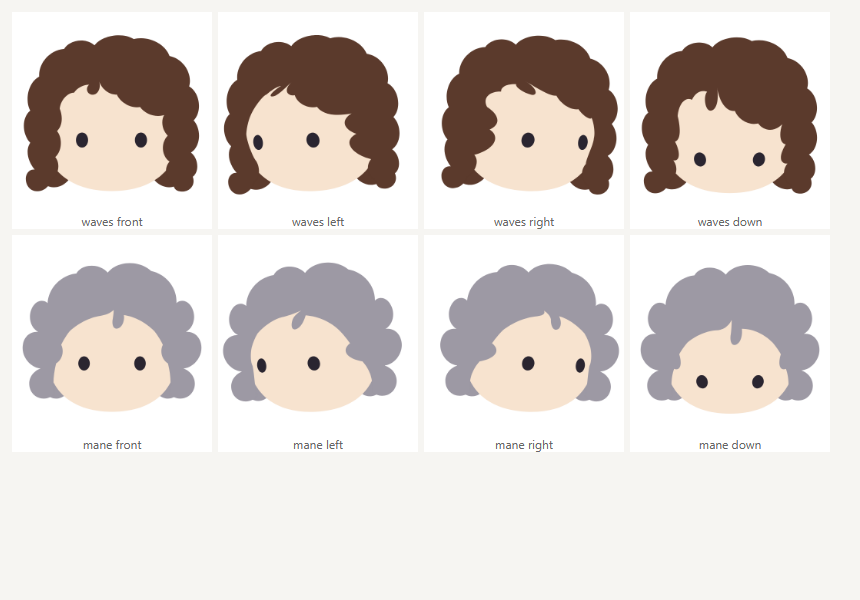
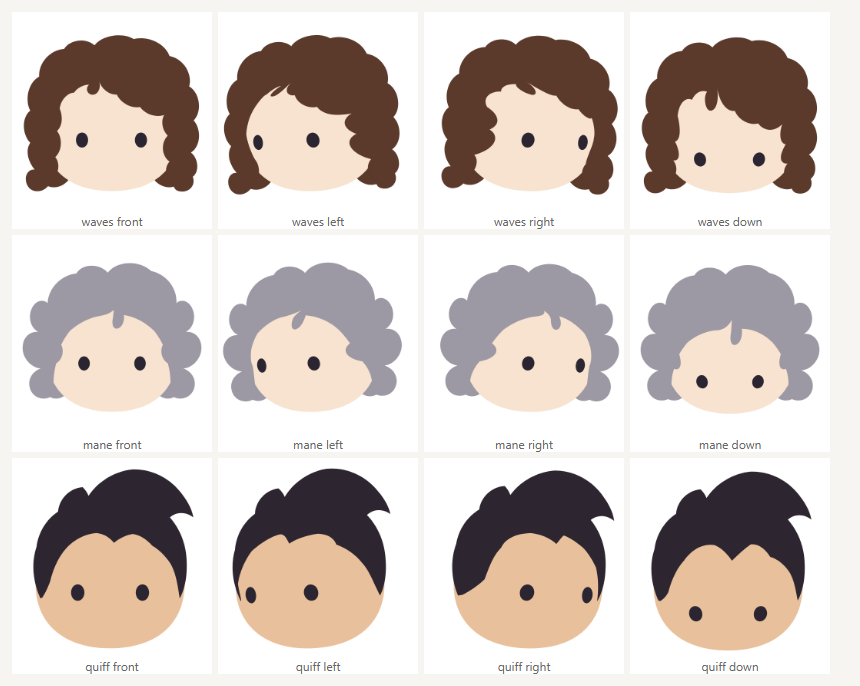
Add a third hair style, quiff
quiff is short at the sides and swept up in front: a small swell at the back
of the crown, then a tall wave that rises across the head, crests high over
one side and curls over to a point, with a notch under it. Its hairline comes
to a soft point over the brow and to a point at each sideburn. It is one flat
colour, known by its outline, as the others are.

diff --git a/src/parts/hair/quiff.ts b/src/parts/hair/quiff.ts
@@ -1,0 +1,32 @@
+import { face, type Part, Z } from "../../part.ts";
+
+/** Short at the sides and swept up in front: a small swell at the back of the crown, then a
+ * tall wave that rises across the head, crests high over one side and curls over to a point,
+ * with a notch under it. The hairline comes to a soft point over the brow and to a point at
+ * each sideburn. */
+export const quiff: Part = {
+  id: "quiff",
+  slot: "hair",
+  colors: ["2d2630"],
+  layers: [
+    {
+      z: Z.hair,
+      shapes: [
+        {
+          d: [
+            // The rim: up the left side, over the small swell, along the wave to its crest
+            // and curled-over point, back under the point, and down the right side.
+            "M14.5 63C11 55.5 9.5 45.5 12.5 36.5C13.5 29 17.5 22.5 23.5 18.5C24 12 29.5 6.5 36 6C37.5 7.5 38.5 9 39 10.5C43.5 3.5 52 -2 61 -3C70 -3.5 79 0.5 85 7.5C88.8 12 91.6 16.5 92.5 21.5C88.5 18.5 84 18.5 80.5 21.5C85 26.5 88.5 34 89 42.5C89.5 50.5 88.5 57.5 85.5 63",
+            // The hairline: each sideburn's inner edge, and between them the brow's line with
+            // its point.
+            face(
+              "C84.5 56 83.5 50 81 45.5C78.5 41.5 75 38 71.5 36C68.5 32.5 65 30.5 61.5 30C58.5 30.5 55 32 52 34.5C49.5 31.5 46.5 29.8 43 29.5C37 30 31.5 33 27.5 37.5C23.5 42 21 48 19.5 54C18.3 57.5 16.8 60.5 15.5 62.5",
+            ),
+            "L14.5 63Z",
+          ],
+          fill: "0",
+        },
+      ],
+    },
+  ],
+};

diff --git a/src/parts/index.ts b/src/parts/index.ts
@@ -3,9 +3,10 @@ import type { Part, Slot } from "../part.ts";
 import { dot } from "./eyes/dot.ts";
 import { round } from "./face/round.ts";
 import { mane } from "./hair/mane.ts";
+import { quiff } from "./hair/quiff.ts";
 import { waves } from "./hair/waves.ts";
 
-export const PARTS: readonly Part[] = [round, dot, waves, mane];
+export const PARTS: readonly Part[] = [round, dot, waves, mane, quiff];
 
 const byId = new Map(PARTS.map((part) => [part.id, part]));
 export const partOf = (id: string): Part | undefined => byId.get(id);

diff --git a/demo/demo.ts b/demo/demo.ts
@@ -32,10 +32,10 @@ const SEEDS = [
 ];
 /** Avatars with hair, which seeds do not choose yet. */
 const DRESSED = [
+  "v1.round-e9c09c.dot-2a2530.quiff-2d2630",
   "v1.round-f7e3cf.dot-2a2530.mane-9d99a4",
   "v1.round-f7e3cf.dot-2a2530.waves-5b3a2c",
-  "v1.round-e9c09c.dot-2a2530.mane-e6dfd3",
-  "v1.round-f4d6b8.dot-2a2530.waves-2d2630",
+  "v1.round-f4d6b8.dot-2a2530.quiff-a0673c",
   "v1.round-ab7852.dot-2a2530.mane-3b2a26",
   "v1.round-e9c09c.dot-2a2530.waves-b4513a",
 ];

diff --git a/test/draw.test.ts b/test/draw.test.ts
@@ -49,7 +49,7 @@ test("every hair is one shape over the head whose rim stays and whose hairline i
   const styles = PARTS.filter((part) => part.slot === "hair");
   assert.deepEqual(
     styles.map((part) => part.id),
-    ["waves", "mane"],
+    ["waves", "mane", "quiff"],
   );
   for (const part of styles) {
     const hair = draw(parseAvatar(`v1.${part.id}`)).shapes.at(-1);

diff --git a/README.md b/README.md
@@ -9,10 +9,10 @@ The library has no dependencies and loads nothing: every drawing is in its code.
 SVG with DOM calls and moves it through SVG attributes, so it works under a content policy that
 allows neither inline styles nor code from text.
 
-This is a prototype: the face, the eyes, and two hair styles, each flat and known by its
+This is a prototype: the face, the eyes, and three hair styles, each flat and known by its
 outline. More are being added one at a time. It is not on npm yet.
 
-![The two hair styles, each front on and looking left, right and down](docs/hair.png)
+![The three hair styles, each front on and looking left, right and down](docs/hair.png)
 
 ## The avatar's string
 
@@ -71,7 +71,7 @@ reduced motion. All the avatars in a page share one clock, which moves them 30 t
 redraws an avatar only when it would change by a quarter of a screen pixel. A picture is a
 square that fits its figure, so an avatar with full hair is drawn a little smaller.
 
-A seed chooses a face and eyes; hair is put on by a string, as `waves` or `mane`.
+A seed chooses a face and eyes; hair is put on by a string, as `waves`, `mane` or `quiff`.
 
 `parseAvatar` reads a string into its settings and throws `AvatarStringError` for text that is
 not one; `formatAvatar` writes settings back. `PARTS` and `SLOTS` list the catalog, for an editor.
